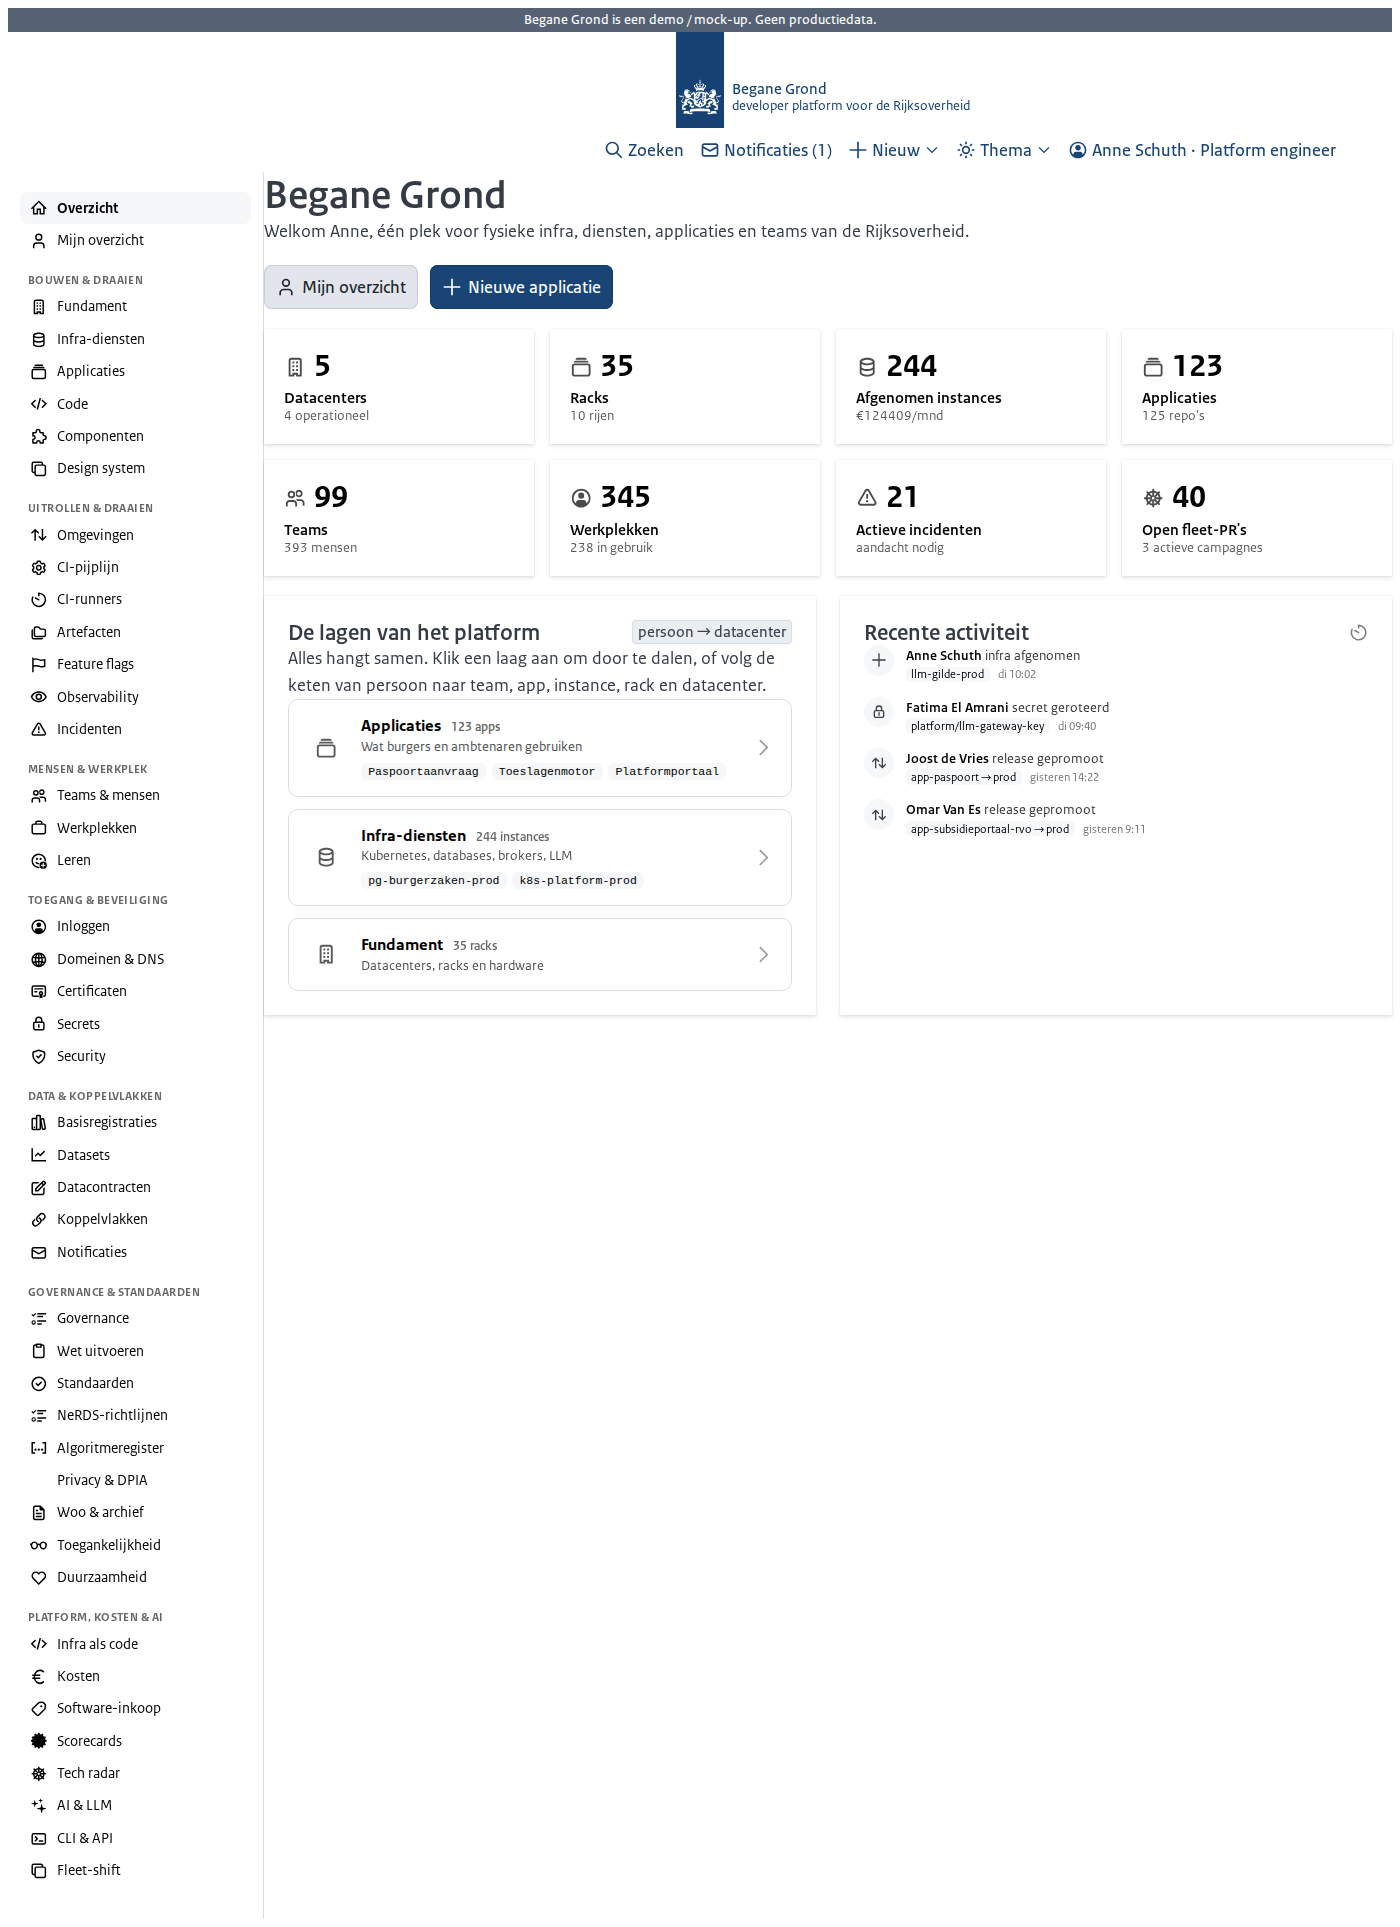
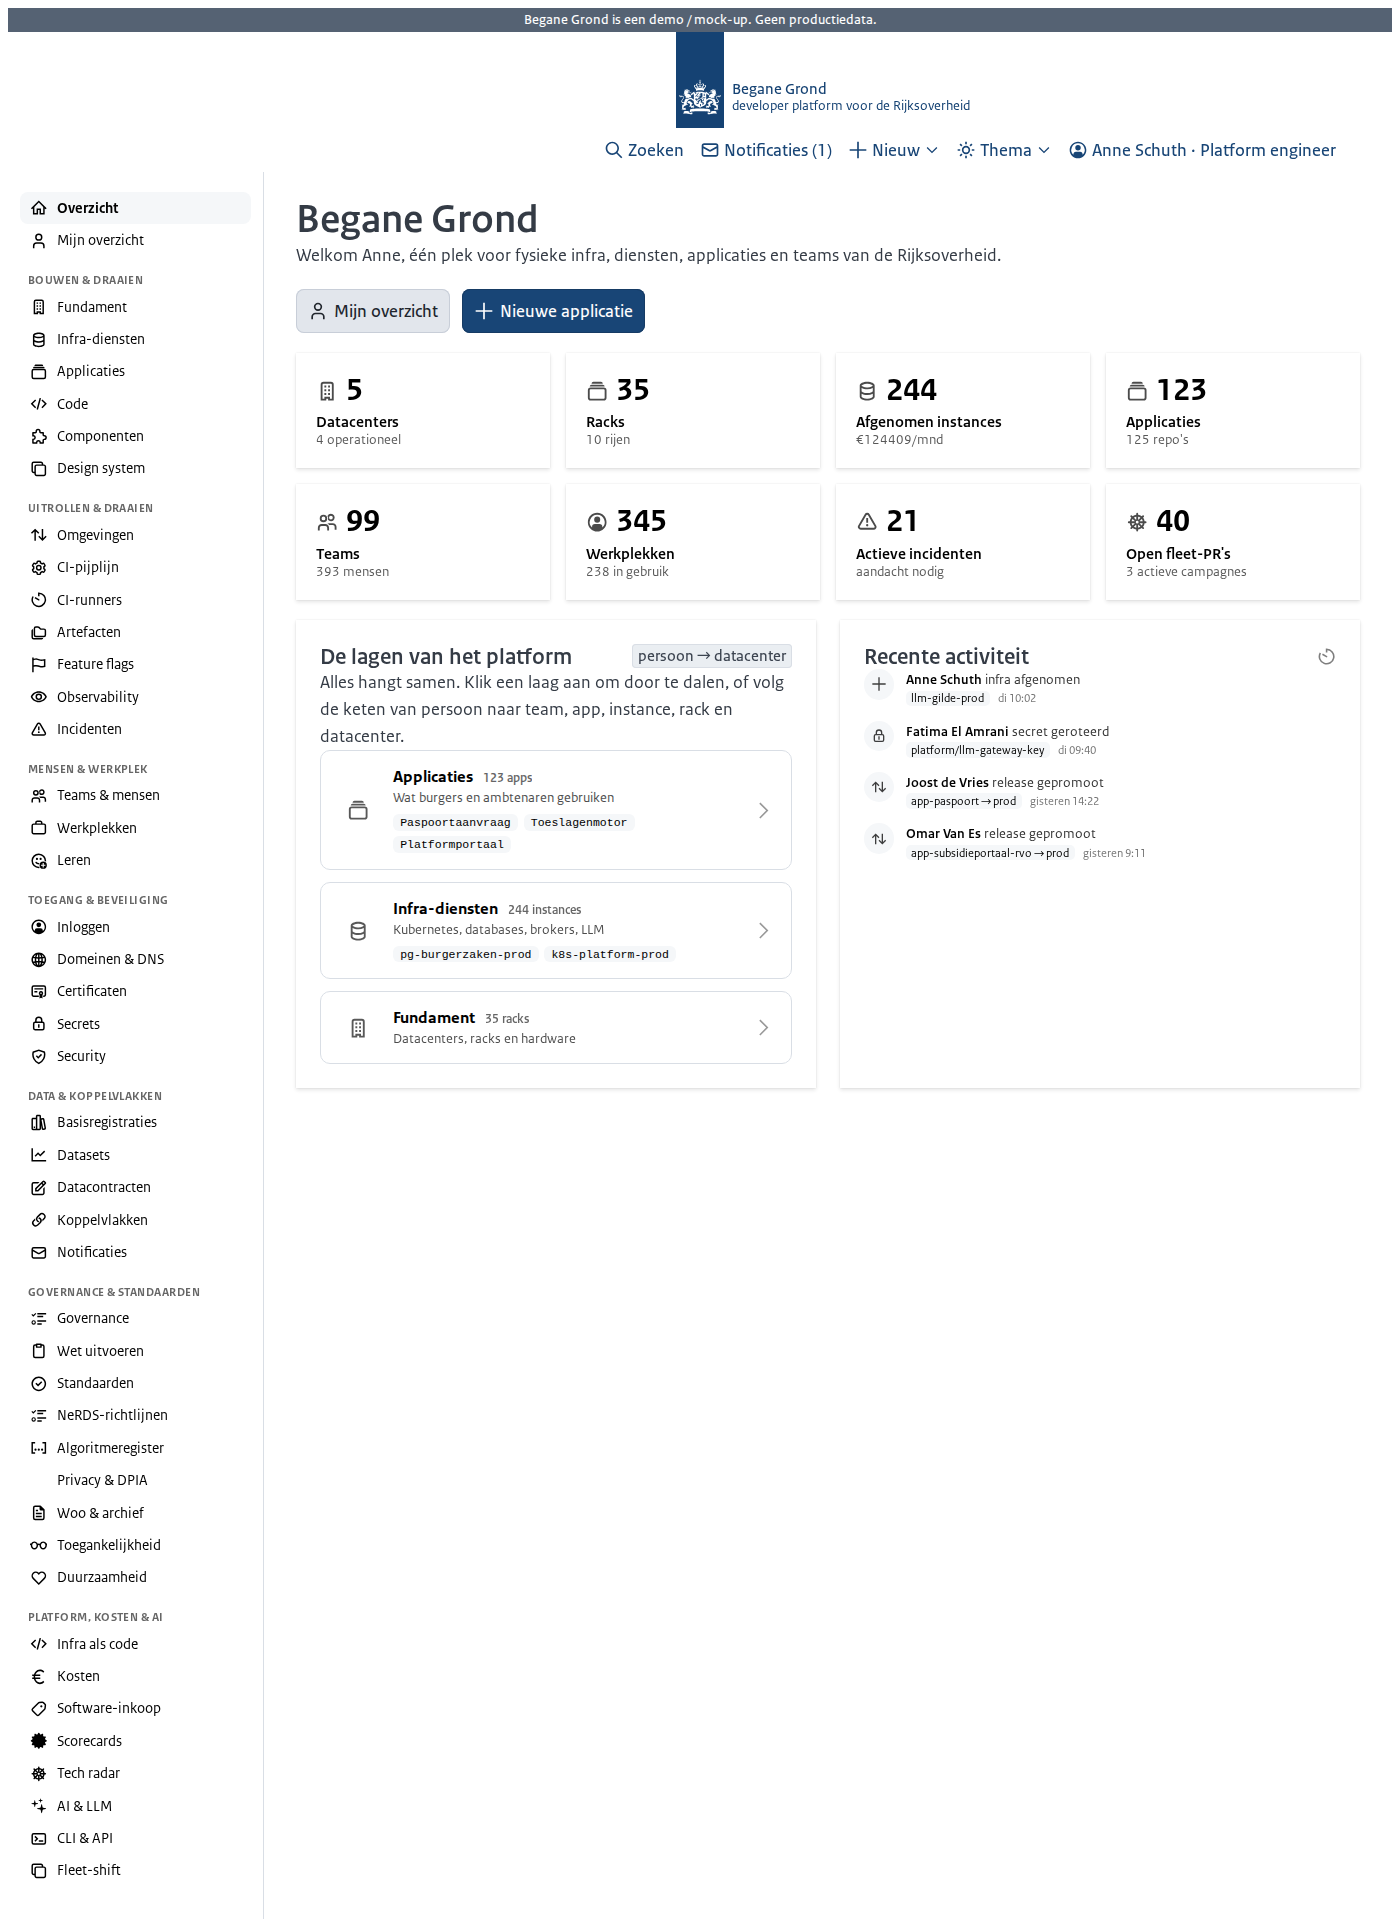
app-shell: give main content padding so it doesn't touch the sidebar
The app-shell main region had no padding, so content sat directly on the
sidebar divider line. Add padding (1.5rem 2rem 4rem, overridable via
--lotc-main-padding), matching the reference's main content inset.

Changed region(s): [[0.1843, 0.0934, 0.5529, 0.5605], [0.6143, 0.1868, 0.7986, 0.4359], [0.7986, 0.1868, 0.8907, 0.3114]]

diff --git a/python/src/lord_of_the_components/static/lotc/layout.css b/python/src/lord_of_the_components/static/lotc/layout.css
@@ -45,7 +45,9 @@
 
 .lotc-app-shell__header { grid-area: header; }
 .lotc-app-shell__sidebar { grid-area: sidebar; }
-.lotc-app-shell__main { grid-area: main; }
+/* Main content gets breathing room so it doesn't butt against the sidebar
+   divider; override via --lotc-main-padding. */
+.lotc-app-shell__main { grid-area: main; padding: var(--lotc-main-padding, 1.5rem 2rem 4rem); }
 .lotc-app-shell__footer { grid-area: footer; }
 
 /* Restack to a single column on narrow viewports; markup is unchanged. */
